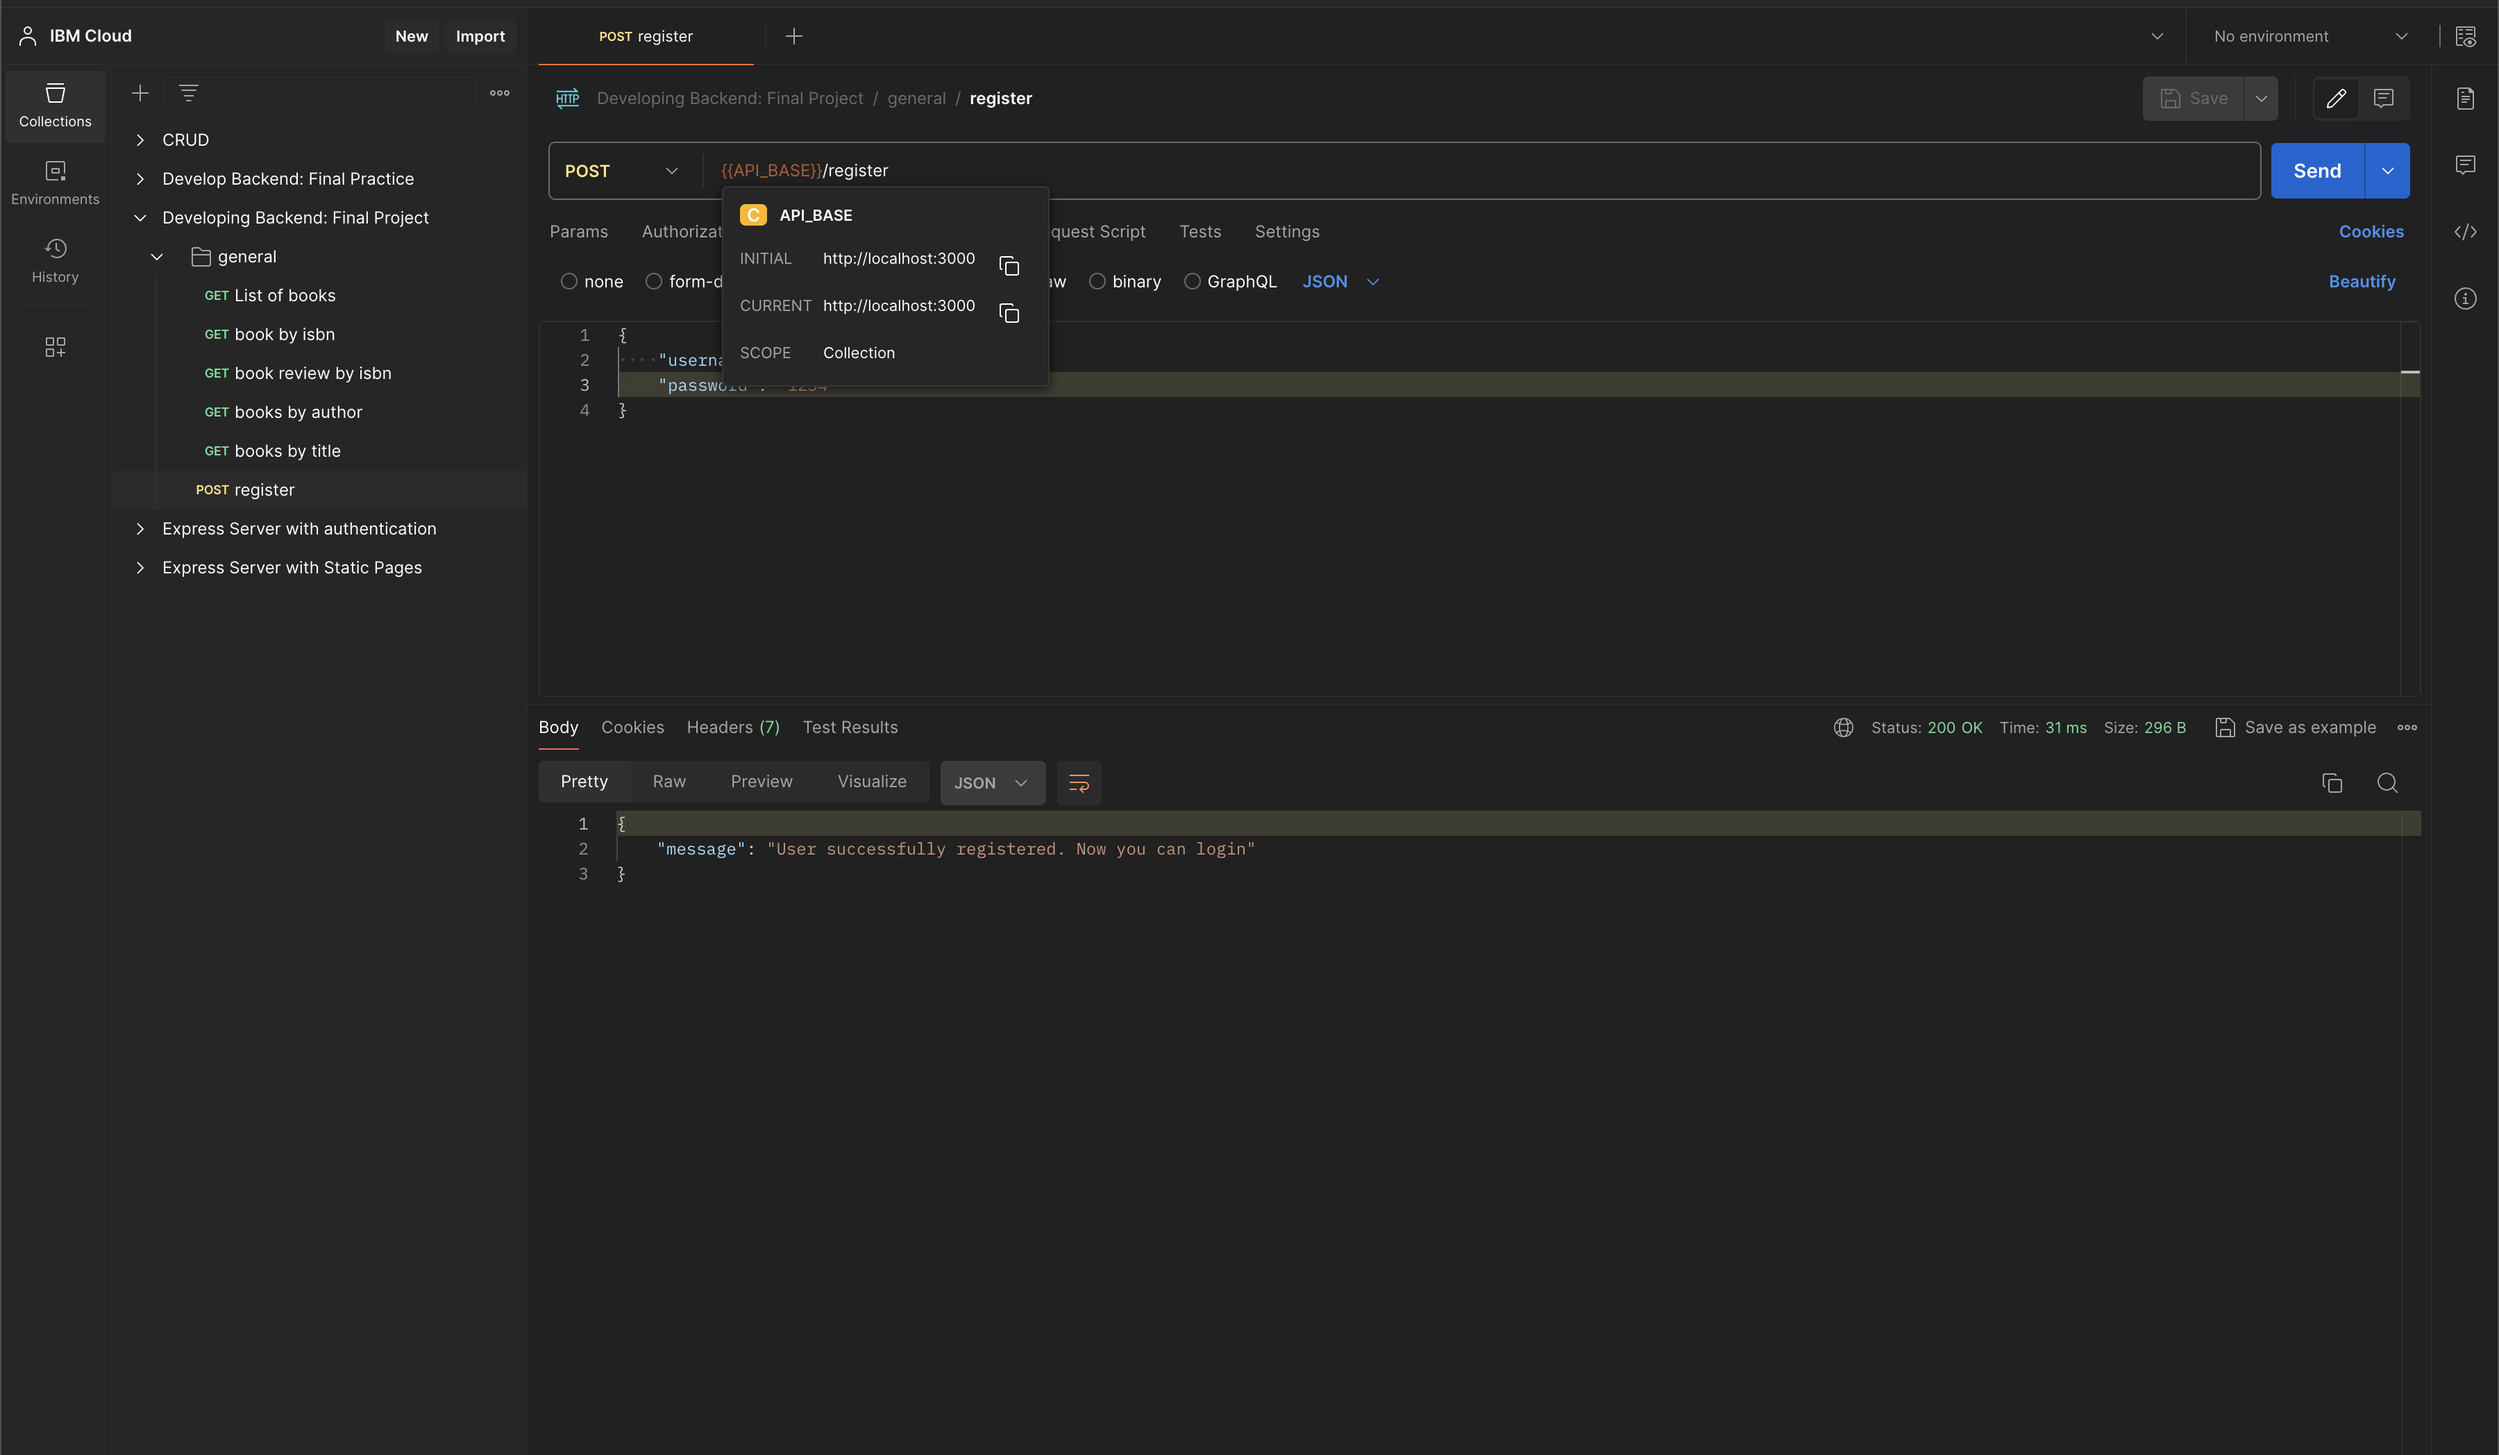
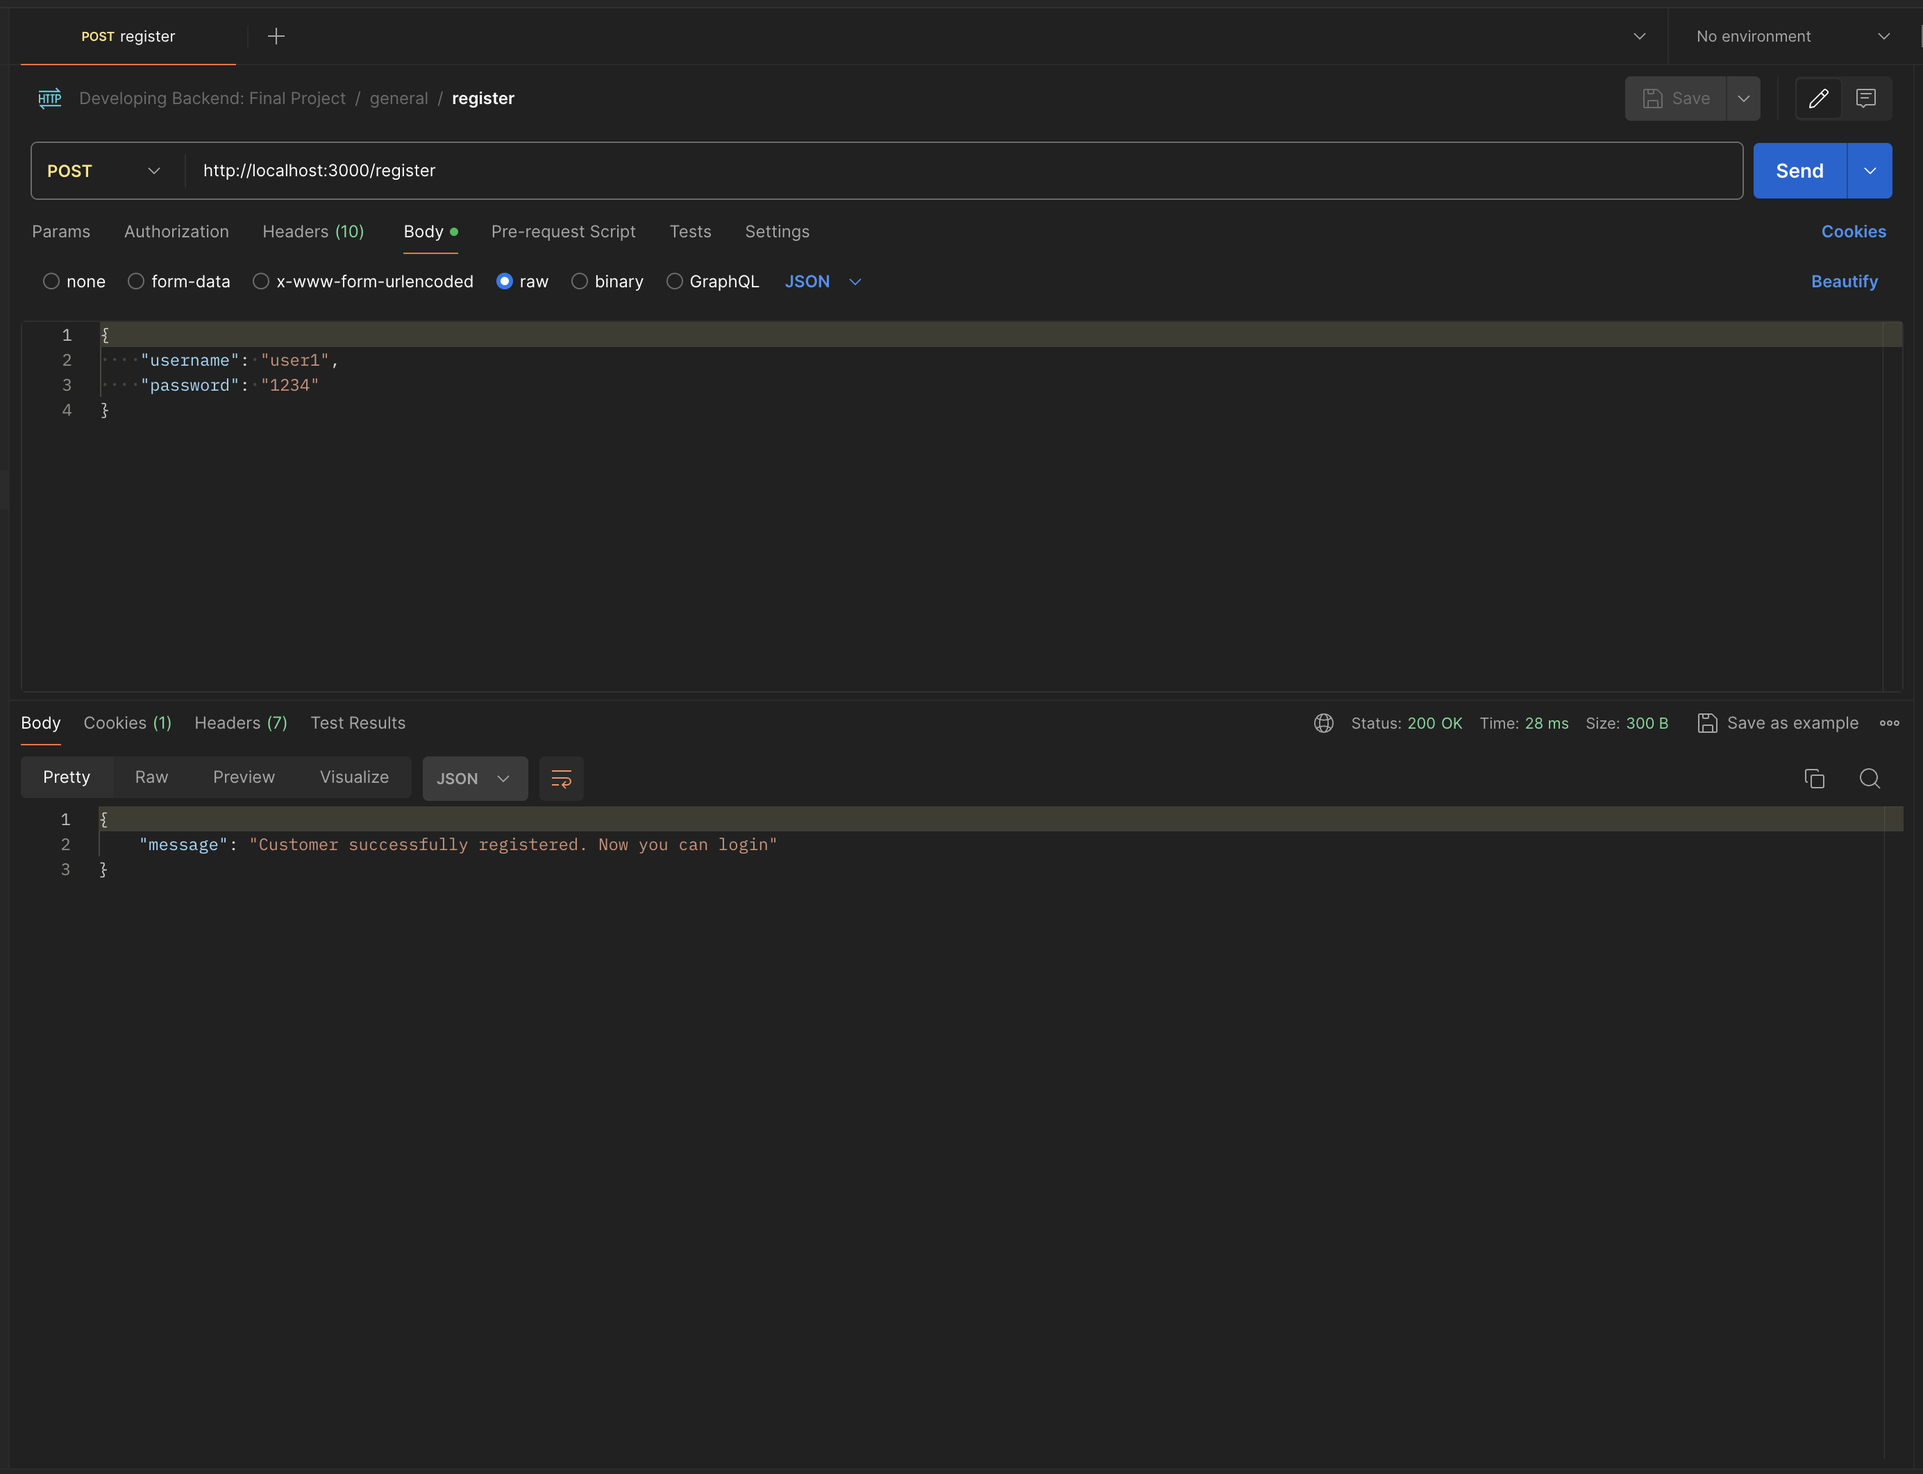
simplify task 6 screenshot

diff --git a/final_project/router/general.js b/final_project/router/general.js
@@ -15,7 +15,7 @@ public_users.post("/register", (request, response) => {
   }
 
   users.push({ "username": username, "password": password });
-  return response.status(200).json({ message: "User successfully registered. Now you can login" });
+  return response.status(200).json({ message: "Customer successfully registered. Now you can login" });
 });
 
 const getBooks = () => {
